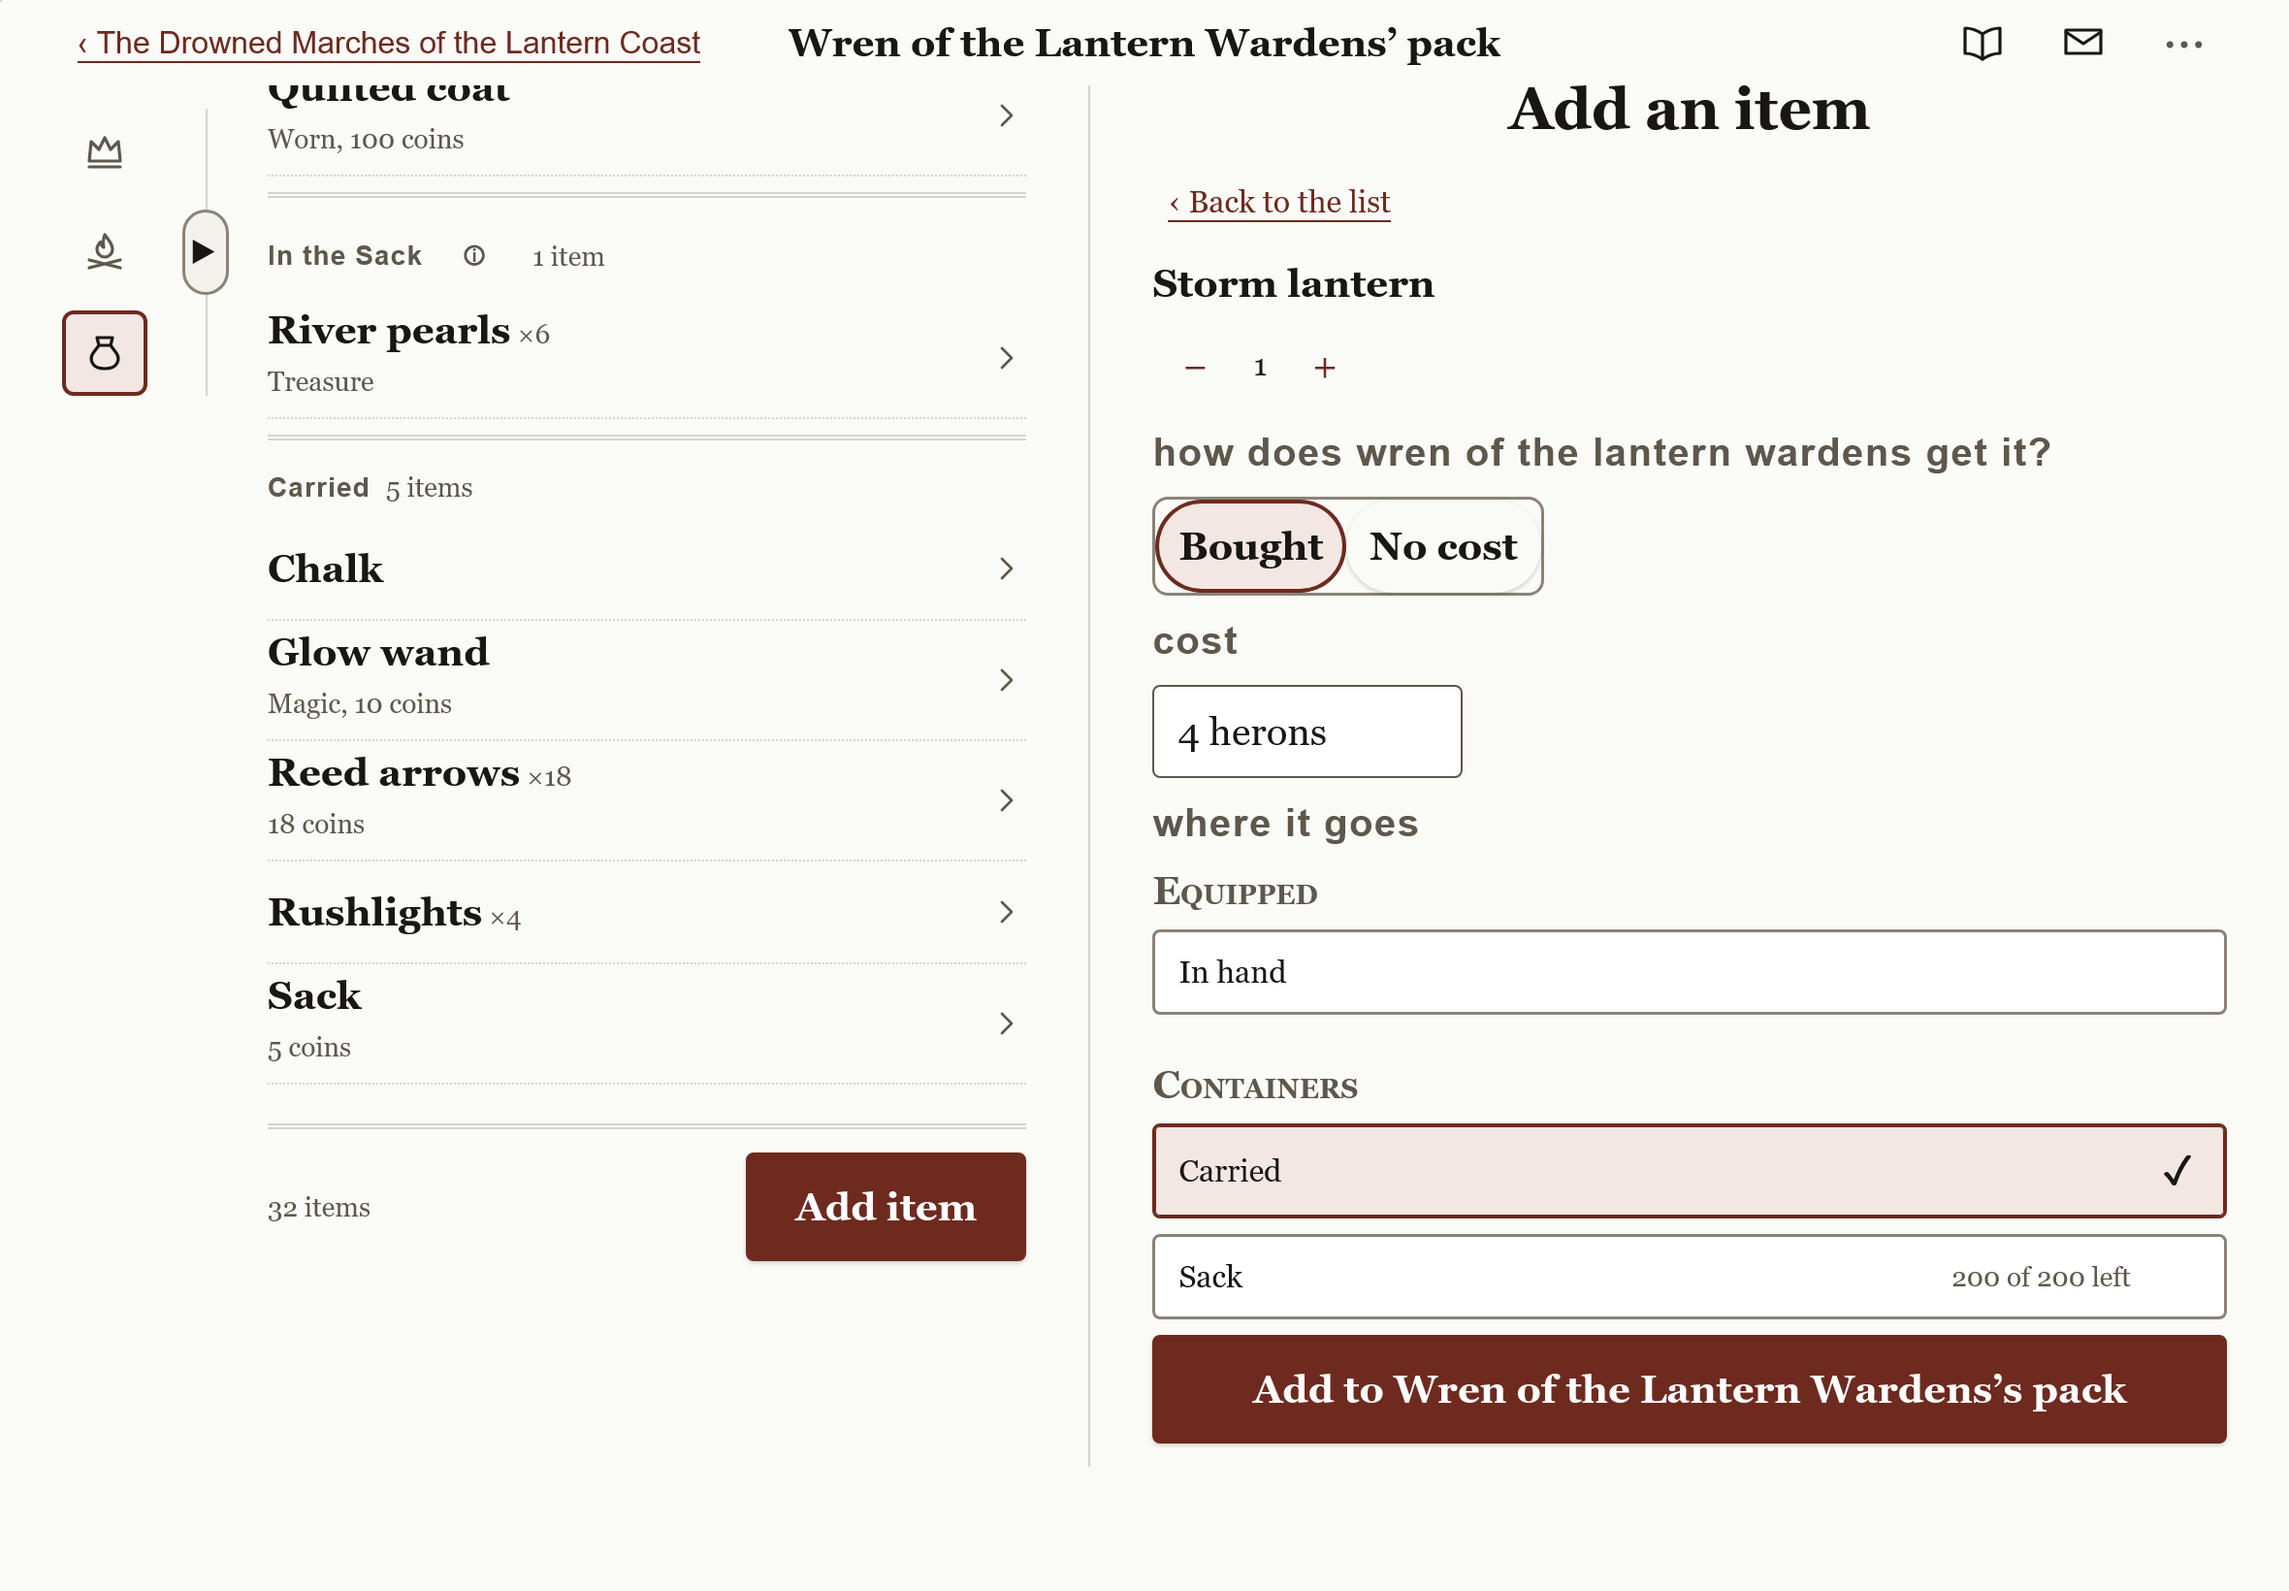
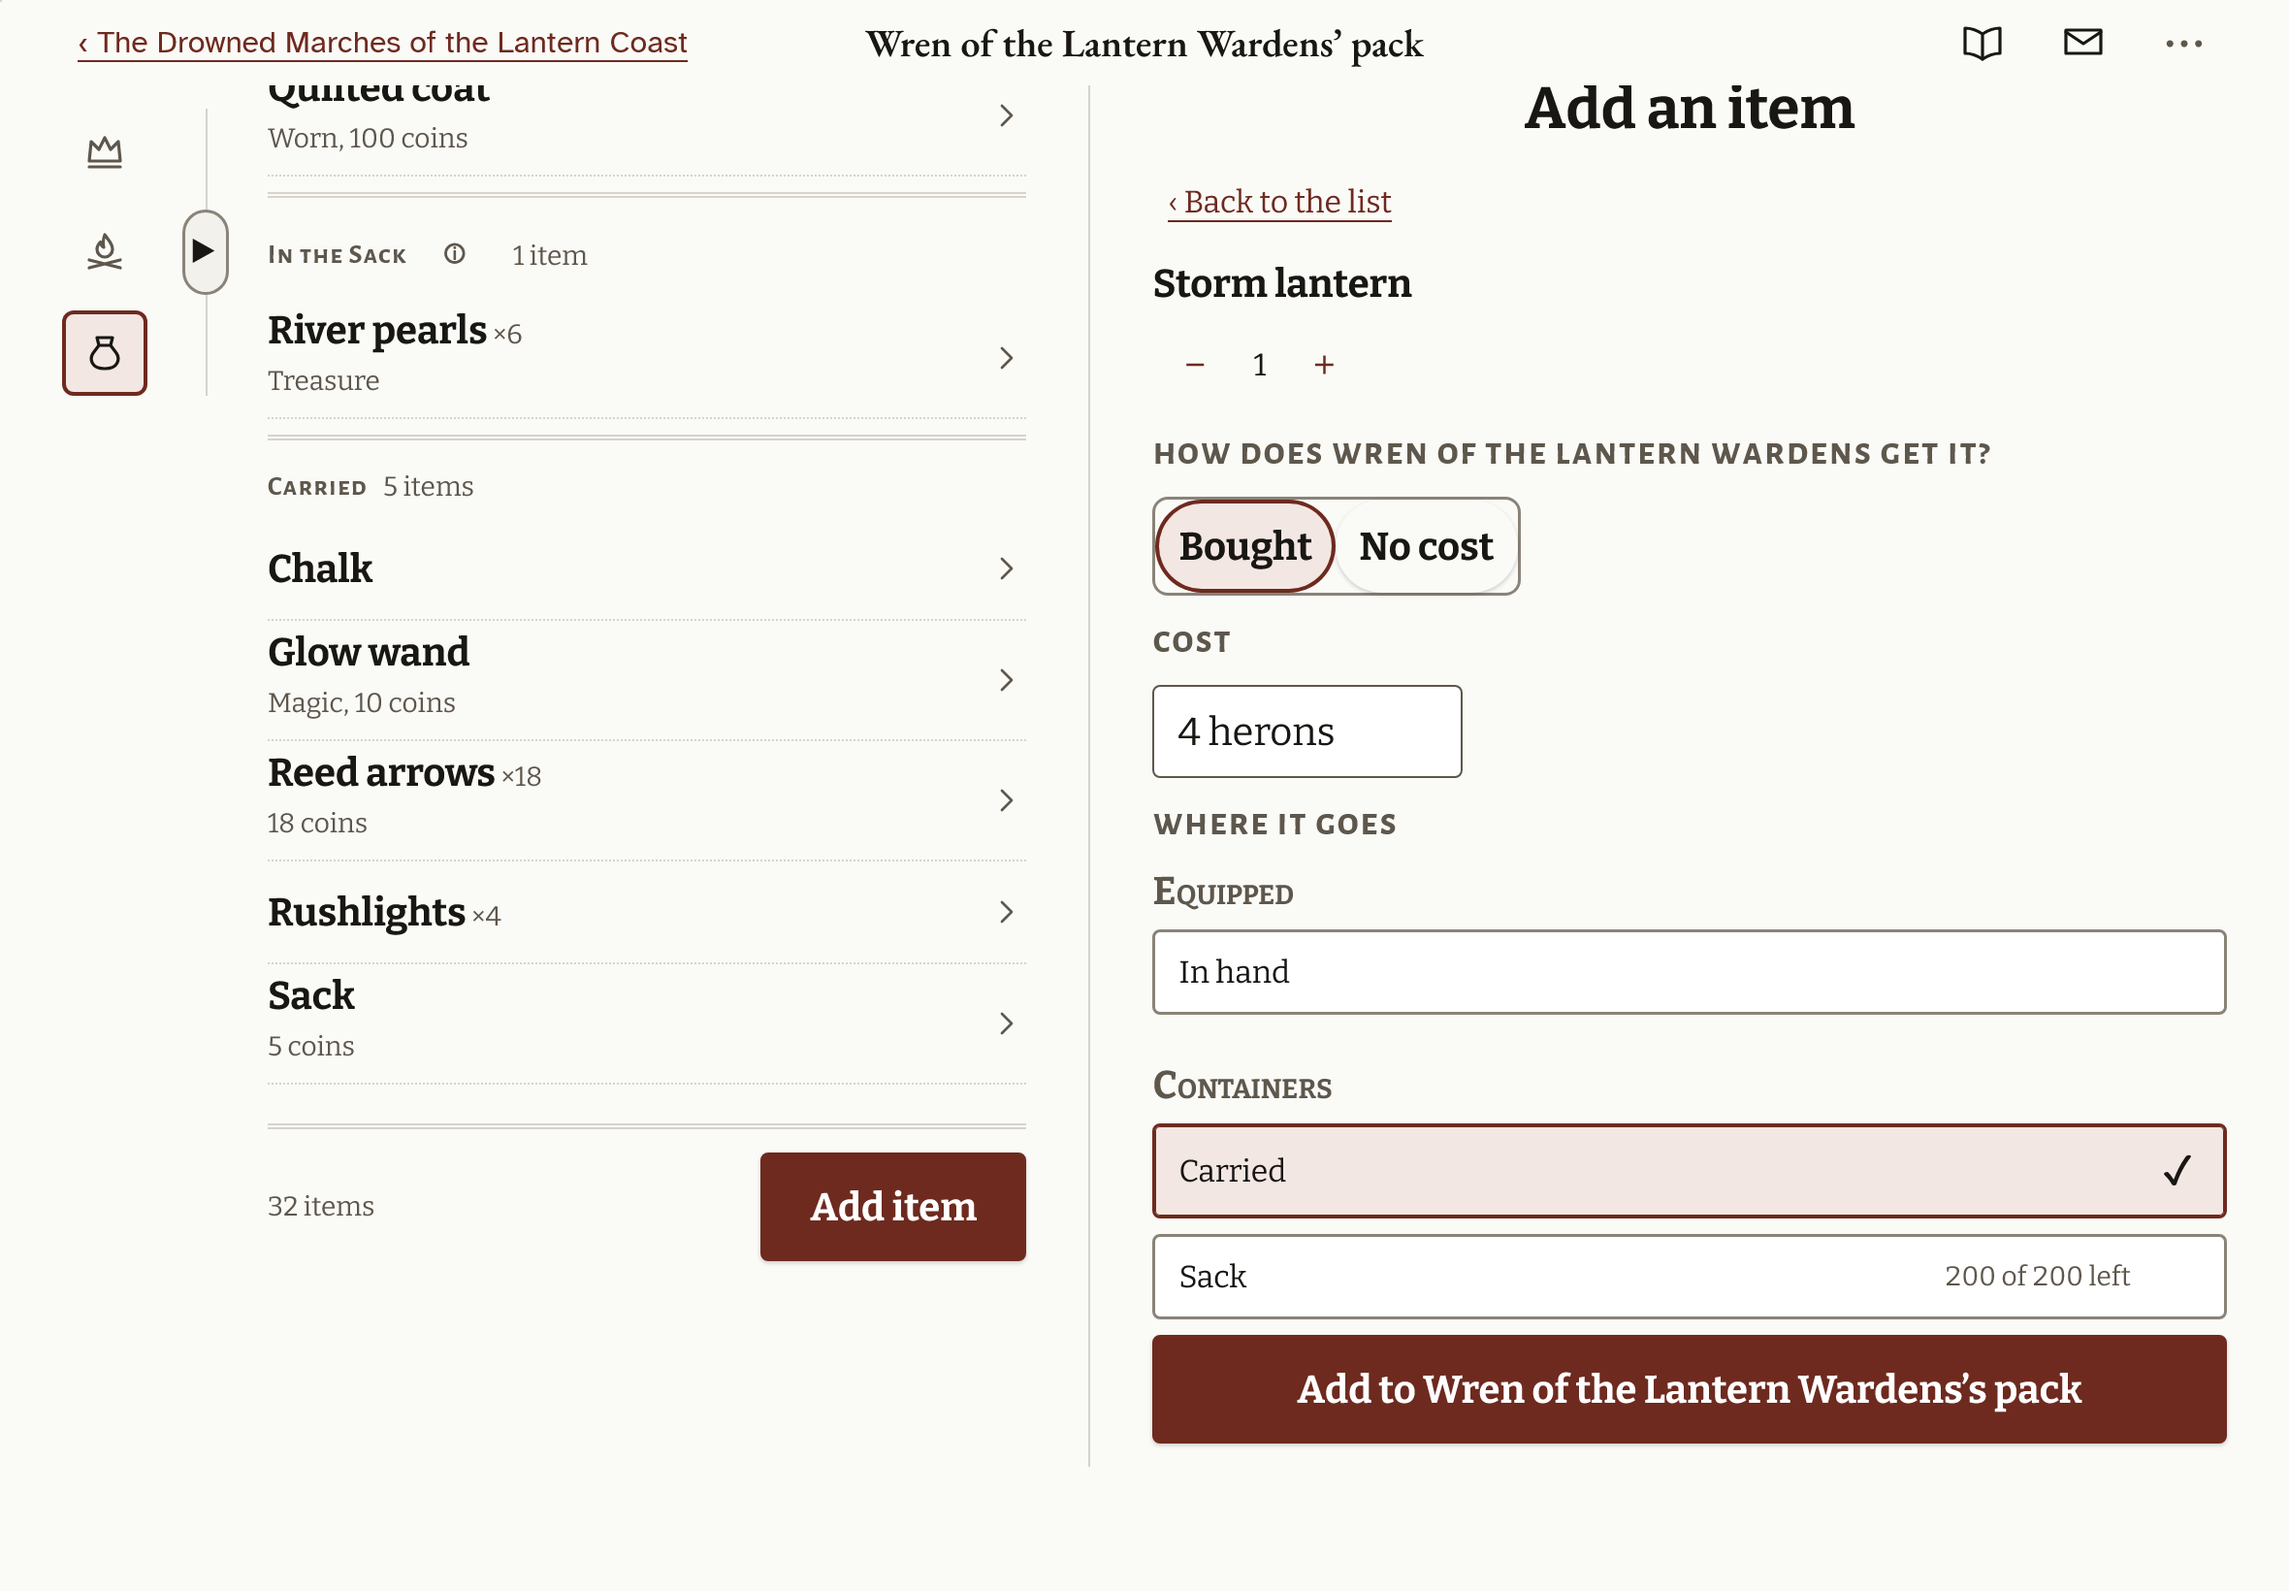
K7: pictures retaken with the book's faces loaded, the shop keeps its stop toast, 09 lines trimmed to what was ruled
The spec waits for the faces and a sheet's slide before each picture; the Spend
picture shows What for filled in.

diff --git a/tests/layout/packPurchase.spec.ts b/tests/layout/packPurchase.spec.ts
@@ -33,7 +33,15 @@ async function bought(page: Page) {
   await expect(page.locator('.toast__text')).toHaveText('Wren of the Lantern Wardens added Storm lantern. Its cost, 4 herons, is not spent yet.');
 }
 
-const shot = (page: Page, name: string, width: number, scheme: string) => page.screenshot({ path: `test-results/layout-screens/k7-${name}-${width}-${scheme}.png` });
+/** A built picture, once the book's faces have loaded and a sheet has finished sliding in (the toast's bar runs on). */
+async function shot(page: Page, name: string, width: number, scheme: string) {
+  await page.evaluate(async () => {
+    await document.fonts.ready;
+    const settling = document.getAnimations().filter((a) => !(a.effect instanceof KeyframeEffect && a.effect.target instanceof Element && a.effect.target.closest('.toast')));
+    await Promise.all(settling.map((a) => a.finished.catch(() => undefined)));
+  });
+  await page.screenshot({ path: `test-results/layout-screens/k7-${name}-${width}-${scheme}.png` });
+}
 
 for (const size of SIZES) {
   for (const scheme of ['light', 'dark'] as const) {
@@ -82,6 +90,7 @@ for (const size of SIZES) {
         await expect(sheet.getByLabel('What for')).toHaveValue('Storm lantern');
         await expect(sheet.locator('.button-primary')).toHaveCount(1);
         await expect(sheet.getByRole('button', { name: 'Spend 4 herons' })).toBeVisible();
+        await sheet.getByLabel('What for').scrollIntoViewIfNeeded();
         await shot(page, 'spend', size.width, scheme);
         expect(await layoutProblems(page)).toEqual([]);
         expect(await accessibilityProblems(page)).toEqual([]);

diff --git a/src/app/AddItem.tsx b/src/app/AddItem.tsx
@@ -284,8 +284,9 @@ export function AddItem({
     // On straight away and it stops casting (B25): the toast says so; Undo takes it off.
     const line = { id: added.value.id, carrier };
     const stopped = place === 'equipped' && stop ? { short: stop.short, undo: () => void runCommand(registry, db, user, equipItem, { line, equipped: false }) } : undefined;
-    // The GM's add has no purchase toast, so the stop's toast is its own; a player's is led by it (review of #108, 1).
-    if (stopped && gm) toast({ text: stopped.short, onUndo: stopped.undo });
+    // The GM's add and the creation shop have no purchase toast, so the stop's toast is its own; on the Pack a player's
+    // purchase toast is led by it (review of #108, 1).
+    if (stopped && (gm || shop)) toast({ text: stopped.short, onUndo: stopped.undo });
     // A player's add says what it made (K7): how many things, the cost as written, and whether it joined a stack.
     const bought = !gm && howGot === 'bought';
     onAdded(bought, added.value, gm ? undefined : { qty: qty * bundle, cost: bought ? cost : '', joined: lines.some((l) => l.id === added.value.id), stopped });

diff --git a/docs/09-decisions-log.md b/docs/09-decisions-log.md
@@ -1744,6 +1744,6 @@ Older entries: `09a-decisions-archive.md`
 - 2026-11-26 — [ui] The log line when a GM leaves a new caster with no spells ready reads "Priya left Wren with no spells ready." (FS1; not drawn on page 46) — "Keep them" (Francis, 26 Nov ~22:10 UTC, at the driver's pop-up)
 - 2026-11-26 — [tech] A character_play row read without the `rested_once` column counts as rested (`src/modules/characters/playState.ts:121`), so a select that leaves the column out never re-opens first spells; technical ownership, FS1 (CI review nit 2)
 - 2026-11-26 — [ui] Built K7 to frame PK10b (ap-7): after Add item the toast says what was added; after Bought, that its cost is not spent yet, with "Spend N" opening the coin's Spend sheet filled in; nothing is charged by itself (tn-1). "Cost noted; purses arrive later." is gone from the Pack and from the log's line. The Toast gains the named variant Action and Undo. The builder's technical calls: Spend is offered only when the cost reads as the setting's coins (`readCost`); the cost follows how many until the player writes their own; Undo shows only where the log's Undo can already take the add back (a joined add); the three ⚑ on #108 are ruled in the next three lines — `plans/dec-6-the-whole-pack-tab.md`, K7
-- 2026-11-26 — [ui] ⚑ 1 of #108 ruled: after a purchase, Undo shows only on an add that joined a stack already carried; a purchase that makes a new line has no Undo for now, and its Undo (a database function like the town's `undo_buy`, under the closed deletion list) is a later row of `plans/dec-6-the-whole-pack-tab.md`, not yet numbered — "ship without" (Francis, 26 Nov, on #108)
+- 2026-11-26 — [ui] ⚑ 1 of #108 ruled: after a purchase, Undo shows only on an add that joined a stack already carried; a purchase that makes a new line has no Undo for now; that Undo is a later row, not yet numbered — "ship without" (Francis, 26 Nov, on #108)
 - 2026-11-26 — [ui] ⚑ 2 of #108 ruled: a cost the setting's coins can't read ("a favour owed") is said in the toast with no "Spend", so nothing is filled in wrongly — "keep" (Francis, 26 Nov, on #108)
-- 2026-11-26 — [words] ⚑ 3 of #108 ruled: the Spend sheet opened from a purchase's toast comes with "What for" filled with the thing's name as the toast says it, so the log reads "Wren spent 4 herons: Storm lantern" — "fill 'What for' with the thing's name" (Francis, 26 Nov, on #108)
+- 2026-11-26 — [words] ⚑ 3 of #108 ruled: the Spend sheet opened from a purchase's toast comes with "What for" filled with the thing's name as the toast says it, so the log reads "Wren spent 4 herons: Storm lantern" — Francis, 26 Nov, on #108: fill What for with the thing's name (his answer as relayed by the driver)
